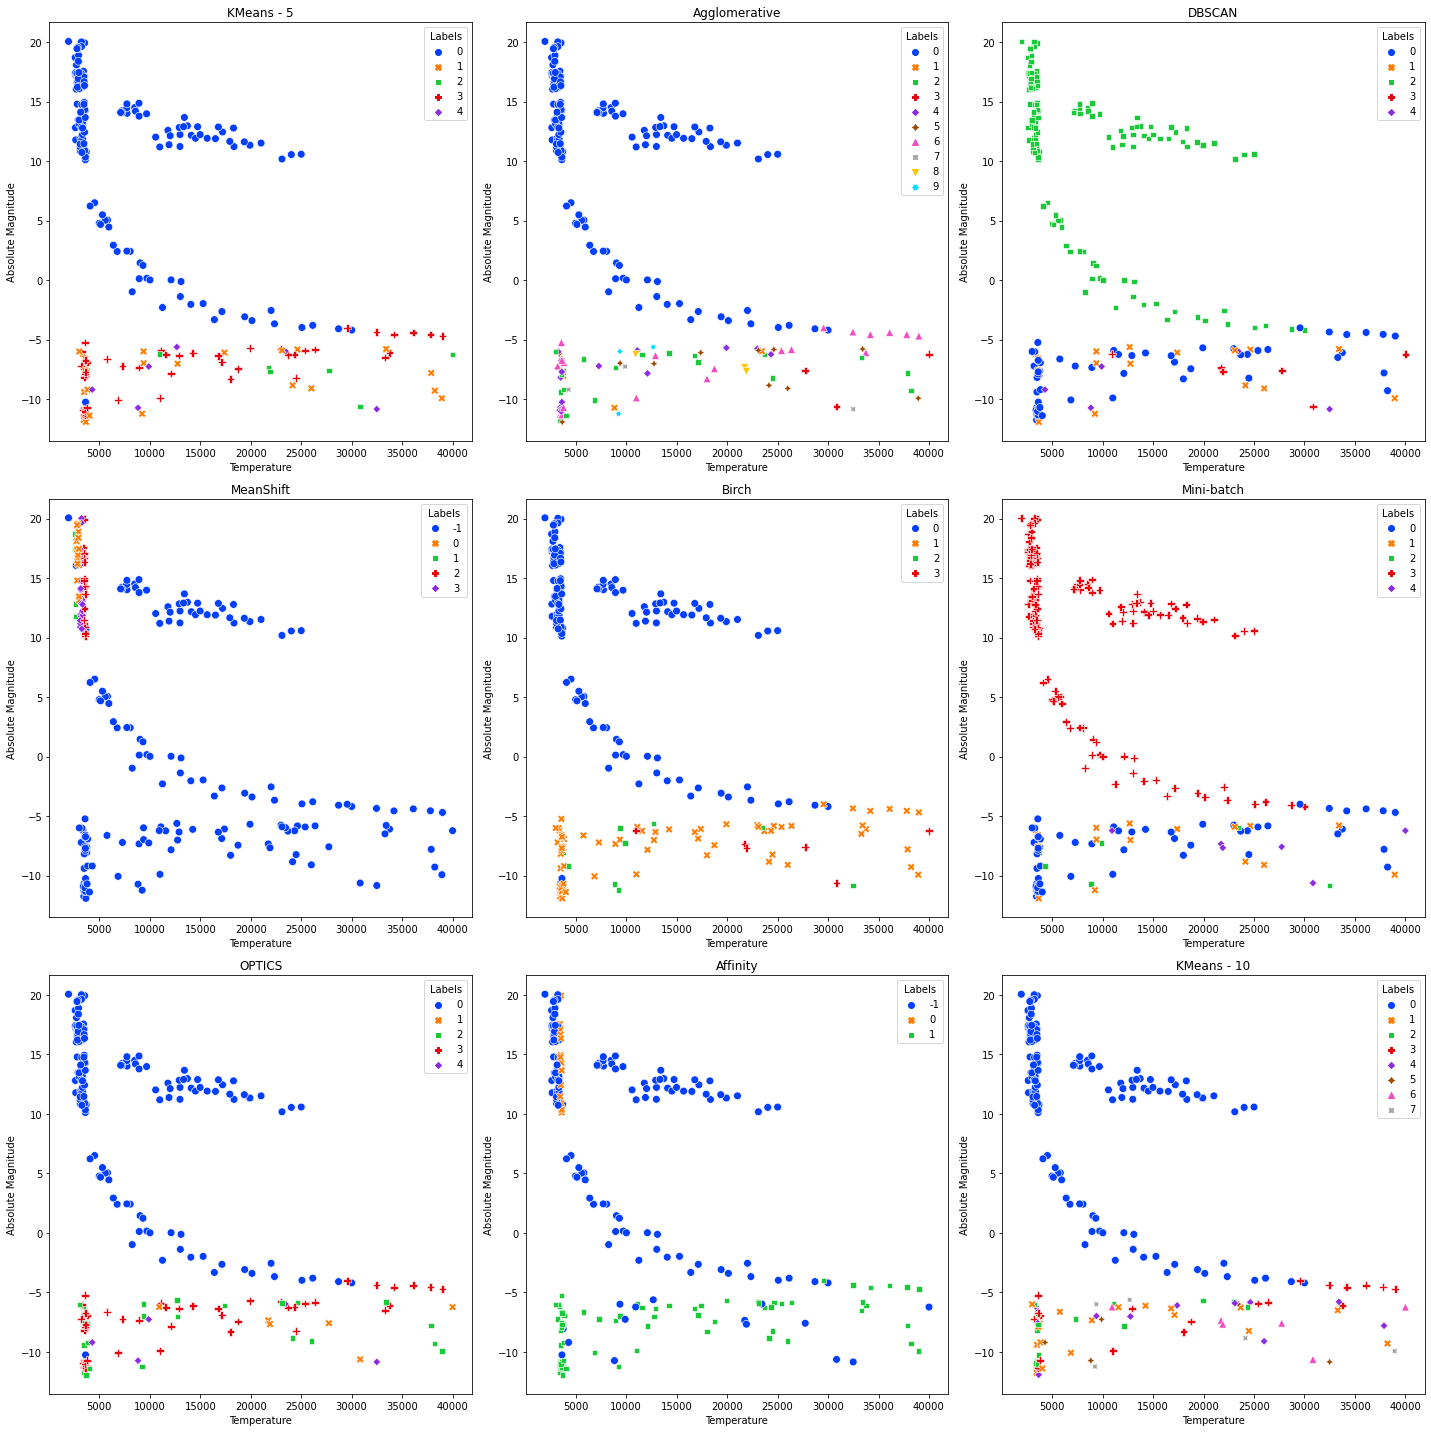
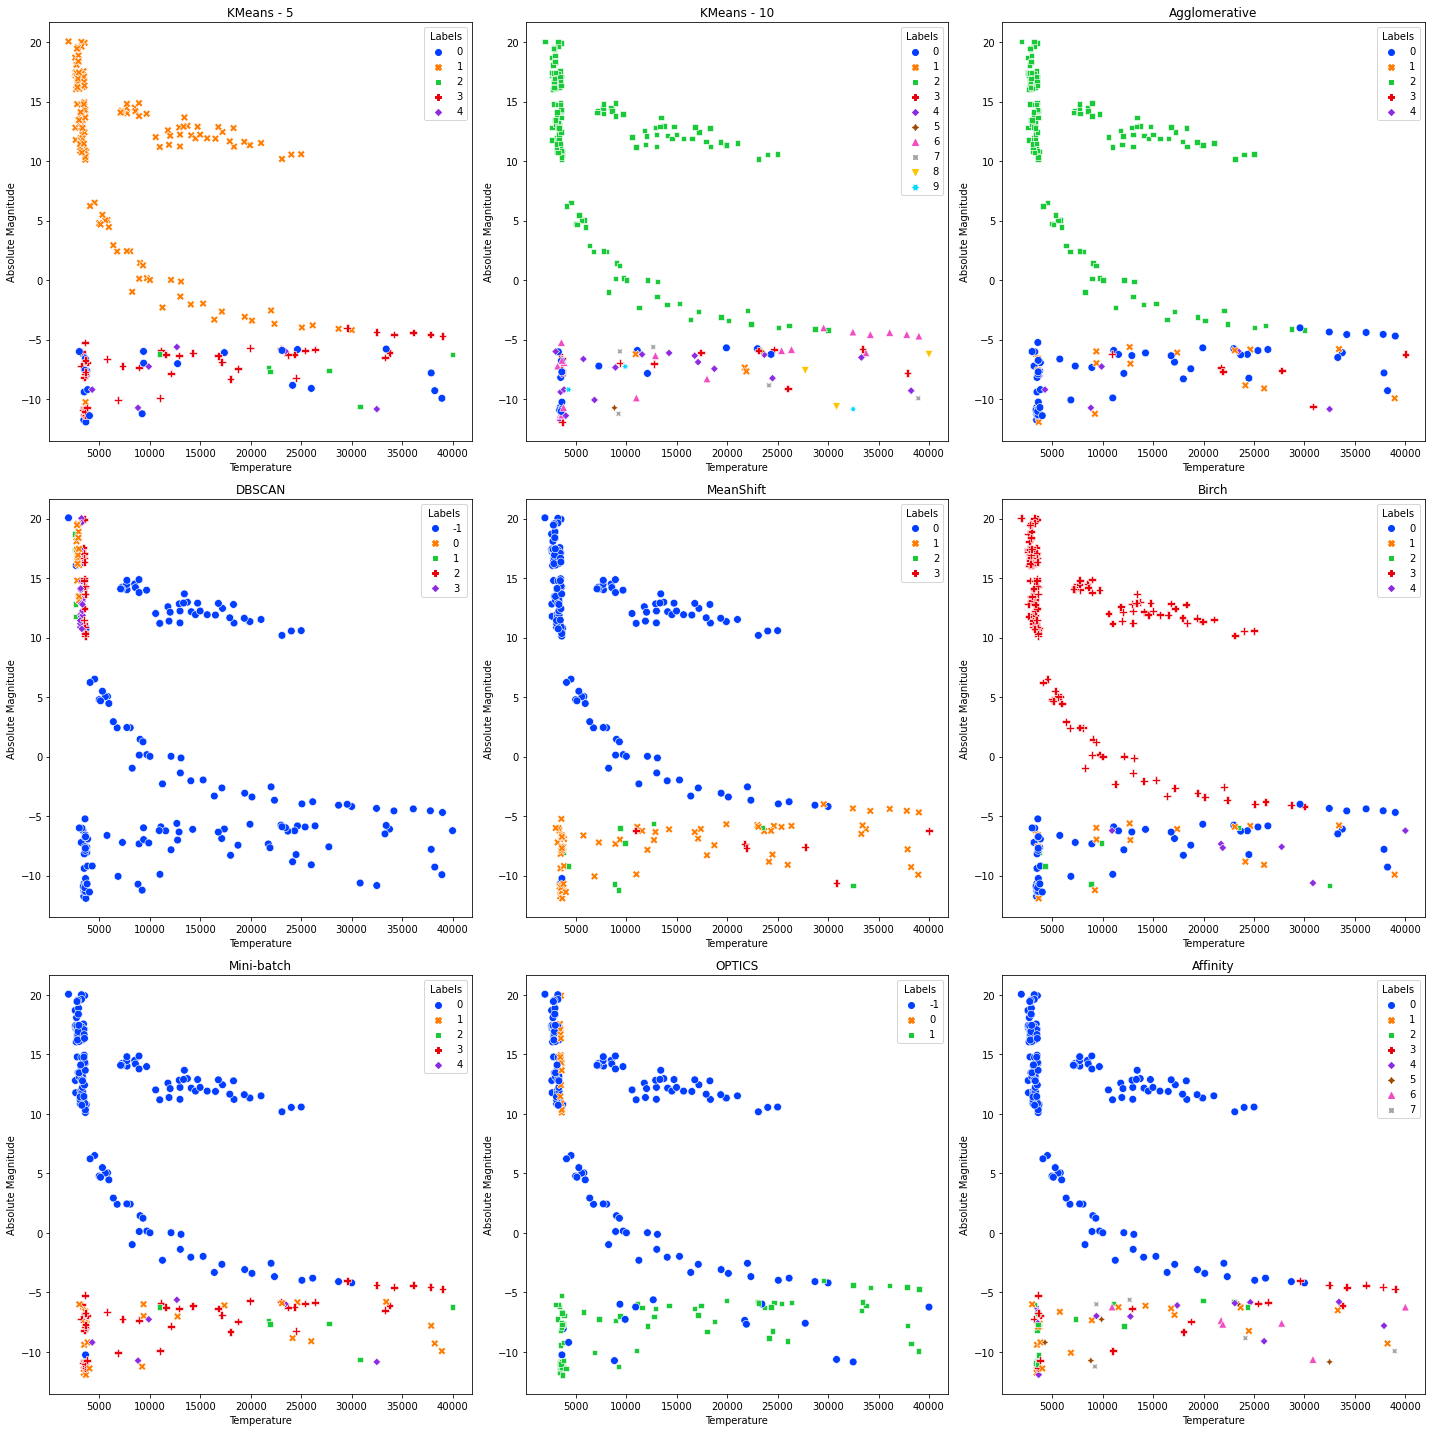
Normalization to pca analysis added

diff --git a/Stars.py b/Stars.py
@@ -31,10 +31,12 @@ X_1 = strs.drop(['Type', 'Color', 'Spectral_Class'], axis=1)
 f,ax = plt.subplots(figsize=(14, 14))
 sns.heatmap(X_1.corr(), annot=True, linewidths=.5, fmt= '.1f',ax=ax)
 
-###################### PCA Application ######################
+###################### PCA and Normalization Application ######################
 
 print(X)
-from sklearn.preprocessing import StandardScaler
+norm = X.drop(['Type'], axis = 1)
+print(norm.head())
+from sklearn.preprocessing import normalize, StandardScaler
 features = ['Temperature', 'Luminosity', 'Radius', 'Absolute Magnitude']
 # Separating out the features
 x = X.loc[:, features].values
@@ -42,6 +44,11 @@ x = X.loc[:, features].values
 y = X.loc[:,['Type']].values
 # Standardizing the features
 x = StandardScaler().fit_transform(x)
+X_normalized = normalize(x)
+X_normalized = pd.DataFrame(X_normalized)
+X_normalized.columns = norm.columns
+
+print(X_normalized.head())
 
 # After standardization x array
 print(x)
@@ -49,7 +56,7 @@ print(x)
 # Components
 from sklearn.decomposition import PCA
 pca = PCA(n_components=2)
-principalComponents = pca.fit_transform(x)
+principalComponents = pca.fit_transform(X_normalized)
 principalDf = pd.DataFrame(data = principalComponents
              , columns = ['pca1', 'pca2'])
 
@@ -347,7 +354,7 @@ plt.show()
 
 ########## PCA applied data visualization under clustering algorithms ##########
 
-###################### KMeans 3-5-10 PCA ######################
+###################### KMeans 3-5-10 PCA and Norm applied ######################
 
 from sklearn.cluster import KMeans
 
@@ -391,7 +398,7 @@ finalDf['Type'] = optics.labels_
 plt.figure(figsize=(12, 8))
 sns.scatterplot(finalDf['pca1'], finalDf['pca2'], hue=finalDf['Type'], 
                 palette=sns.color_palette('bright', np.unique(optics.labels_).shape[0]))
-plt.title('OPTICS with ' + str(np.unique(optics.labels_).shape[0]) + ' Clusters')
+plt.title('OPTICS with ' + str(np.unique(optics.labels_).shape[0]) + ' Clusters on PCA applied')
 plt.show()
 
 ###################### Affinity Propagation ######################
@@ -404,7 +411,7 @@ finalDf['Type'] = affi.labels_
 plt.figure(figsize=(12, 8))
 sns.scatterplot(finalDf['pca1'], finalDf['pca2'], hue=finalDf['Type'], 
                 palette=sns.color_palette('bright', np.unique(affi.labels_).shape[0]))
-plt.title('Affinity Prop with '+ str(np.unique(affi.labels_).shape[0]) + ' Clusters')
+plt.title('Affinity Prop with '+ str(np.unique(affi.labels_).shape[0]) + ' Clusters on PCA applied')
 plt.show()
 
 ###################### Agglomerative ######################
@@ -418,10 +425,10 @@ plt.figure(figsize=(12, 8))
 sns.scatterplot(finalDf['pca1'], finalDf['pca2'], hue=finalDf['Type'], 
                 palette=sns.color_palette('bright', 5))
 plt.title('Agglomerative with ' +
-          str(np.unique(agglom.labels_).shape[0]) + ' Clusters')
+          str(np.unique(agglom.labels_).shape[0]) + ' Clusters on PCA applied')
 plt.show()
 
-# ###################### Hierarchy dendogram ######################
+###################### Hierarchy dendogram ######################
 
 from scipy.cluster import hierarchy 
 from scipy.spatial import distance_matrix 
@@ -447,7 +454,7 @@ finalDf['Type'] = db.labels_
 plt.figure(figsize=(12, 8))
 sns.scatterplot(finalDf['pca1'], finalDf['pca2'], hue=finalDf['Type'], 
                 palette=sns.color_palette('bright', np.unique(db.labels_).shape[0]))
-plt.title('DBSCAN with epsilon 50, min samples 6')
+plt.title('DBSCAN with epsilon 50, min samples 6 on PCA applied')
 plt.show()
 
 ###################### MeanShift ######################
@@ -463,7 +470,7 @@ plt.figure(figsize=(12, 8))
 sns.scatterplot(finalDf['pca1'], finalDf['pca2'], hue=finalDf['Type'], 
                 palette=sns.color_palette('bright', np.unique(ms.labels_).shape[0]))
 plt.plot()
-plt.title('MeanShift with ' + str(np.unique(ms.labels_).shape[0]) + ' Clusters' )
+plt.title('MeanShift with ' + str(np.unique(ms.labels_).shape[0]) + ' Clusters on PCA applied' )
 plt.show()
 
 ###################### Mini Batch K Means ######################
@@ -476,7 +483,7 @@ finalDf['Type'] = mbk.labels_
 plt.figure(figsize=(12, 8))
 sns.scatterplot(finalDf['pca1'], finalDf['pca2'], hue=finalDf['Type'], 
                 palette=sns.color_palette('bright', np.unique(mbk.labels_).shape[0]))
-plt.title('Mini-batch with ' + str(np.unique(mbk.labels_).shape[0]) + ' clusters')
+plt.title('Mini-batch with ' + str(np.unique(mbk.labels_).shape[0]) + ' clusters on PCA applied')
 plt.show()
 
 ###################### Birch ######################
@@ -489,7 +496,90 @@ finalDf['Type'] = brch.labels_
 plt.figure(figsize=(12, 8))
 sns.scatterplot(finalDf['pca1'], finalDf['pca2'], hue=finalDf['Type'], 
                 palette=sns.color_palette('bright', np.unique(brch.labels_).shape[0]))
-plt.title('Birch with ' + str(np.unique(brch.labels_).shape[0]) + ' Clusters')
+plt.title('Birch with ' + str(np.unique(brch.labels_).shape[0]) + ' Clusters on PCA applied')
+plt.show()
+
+###################### ALL-IN-ONE PCA Data ######################
+
+fig = plt.figure(figsize=(20,20))
+
+a1 = fig.add_subplot(331)
+a2 = fig.add_subplot(332)
+a3 = fig.add_subplot(333)
+a4 = fig.add_subplot(334)
+a5 = fig.add_subplot(335)
+a6 = fig.add_subplot(336)
+a7 = fig.add_subplot(337)
+a8 = fig.add_subplot(338)
+a9 = fig.add_subplot(339)
+
+##### KMeans-5 #####
+
+km5 = KMeans(n_clusters=5).fit(X)
+sns.scatterplot(finalDf['pca1'], finalDf['pca2'], hue=km5.labels_, style=km5.labels_,
+                palette=sns.color_palette('bright', 5), s=60, ax=a1)
+a1.set_title('KMeans - 5')
+
+##### KMeans-10 #####
+
+km10 = KMeans(n_clusters=10).fit(finalDf)
+sns.scatterplot(finalDf['pca1'], finalDf['pca2'], hue=km10.labels_, style=km10.labels_,
+                palette=sns.color_palette('bright', 10), s=60, ax=a2)
+a2.set_title('KMeans - 10')
+
+##### Agglomerative Clustering #####
+
+agglom = AgglomerativeClustering(n_clusters=5, linkage='average').fit(finalDf)
+sns.scatterplot(finalDf['pca1'], finalDf['pca2'], hue=agglom.labels_, style=agglom.labels_,
+                palette=sns.color_palette('bright', 5), s=60, ax=a3)
+a3.set_title('Agglomerative')
+
+
+##### DBSCAN #####
+
+db = DBSCAN(eps=50, min_samples=6).fit(finalDf)
+sns.scatterplot(finalDf['pca1'], finalDf['pca2'], hue=db.labels_, style=db.labels_, s=60,
+                palette=sns.color_palette('bright', np.unique(db.labels_).shape[0]), ax=a4)
+a4.set_title('DBSCAN')
+
+
+##### MEAN SHIFT #####
+
+bandwidth = estimate_bandwidth(finalDf, quantile=0.5)
+ms = MeanShift(bandwidth).fit(finalDf)
+sns.scatterplot(finalDf['pca1'], finalDf['pca2'], hue=ms.labels_, style=ms.labels_, s=60,
+                palette=sns.color_palette('bright', np.unique(ms.labels_).shape[0]), ax=a5)
+a5.set_title('MeanShift')
+
+##### Birch #####
+
+brch = Birch(threshold=0.01, n_clusters=5).fit(finalDf)
+sns.scatterplot(finalDf['pca1'], finalDf['pca2'], hue=brch.labels_, style=brch.labels_, s=60,
+                palette=sns.color_palette('bright', np.unique(brch.labels_).shape[0]), ax=a6)
+a6.set_title('Birch')
+
+##### Mini Batch K Means #####
+
+mbk = MiniBatchKMeans(n_clusters=5).fit(finalDf)
+sns.scatterplot(finalDf['pca1'], finalDf['pca2'], hue=mbk.labels_, style=mbk.labels_, s=60,
+                palette=sns.color_palette('bright', np.unique(mbk.labels_).shape[0]), ax=a7)
+a7.set_title('Mini-batch')
+
+##### OPTICS #####
+
+optics = OPTICS(eps=0.5, min_samples=20).fit(finalDf)
+sns.scatterplot(finalDf['pca1'], finalDf['pca2'], hue=optics.labels_, style=optics.labels_, s=60,
+                palette=sns.color_palette('bright', np.unique(optics.labels_).shape[0]), ax=a8)
+a8.set_title('OPTICS')
+
+##### Affinity #####
+
+affi = AffinityPropagation(damping=0.9).fit(finalDf)
+sns.scatterplot(finalDf['pca1'], finalDf['pca2'], hue=affi.labels_, style=affi.labels_, s=60,
+                palette=sns.color_palette('bright', np.unique(affi.labels_).shape[0]), ax=a9)
+a9.set_title('Affinity')
+
+plt.tight_layout()
 plt.show()
 
 ###################### Categorical Variables ######################
